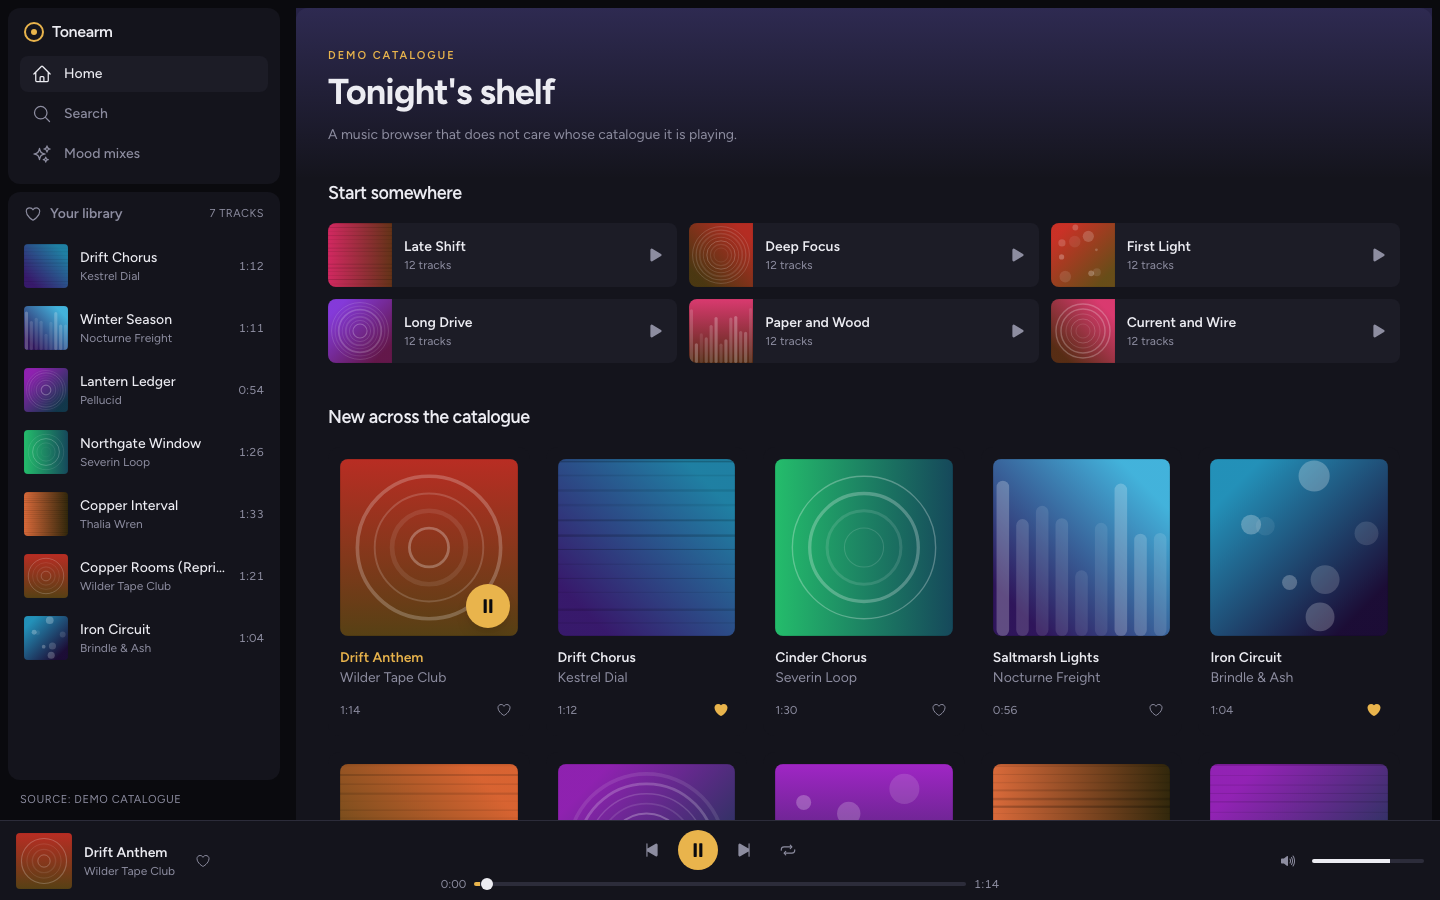
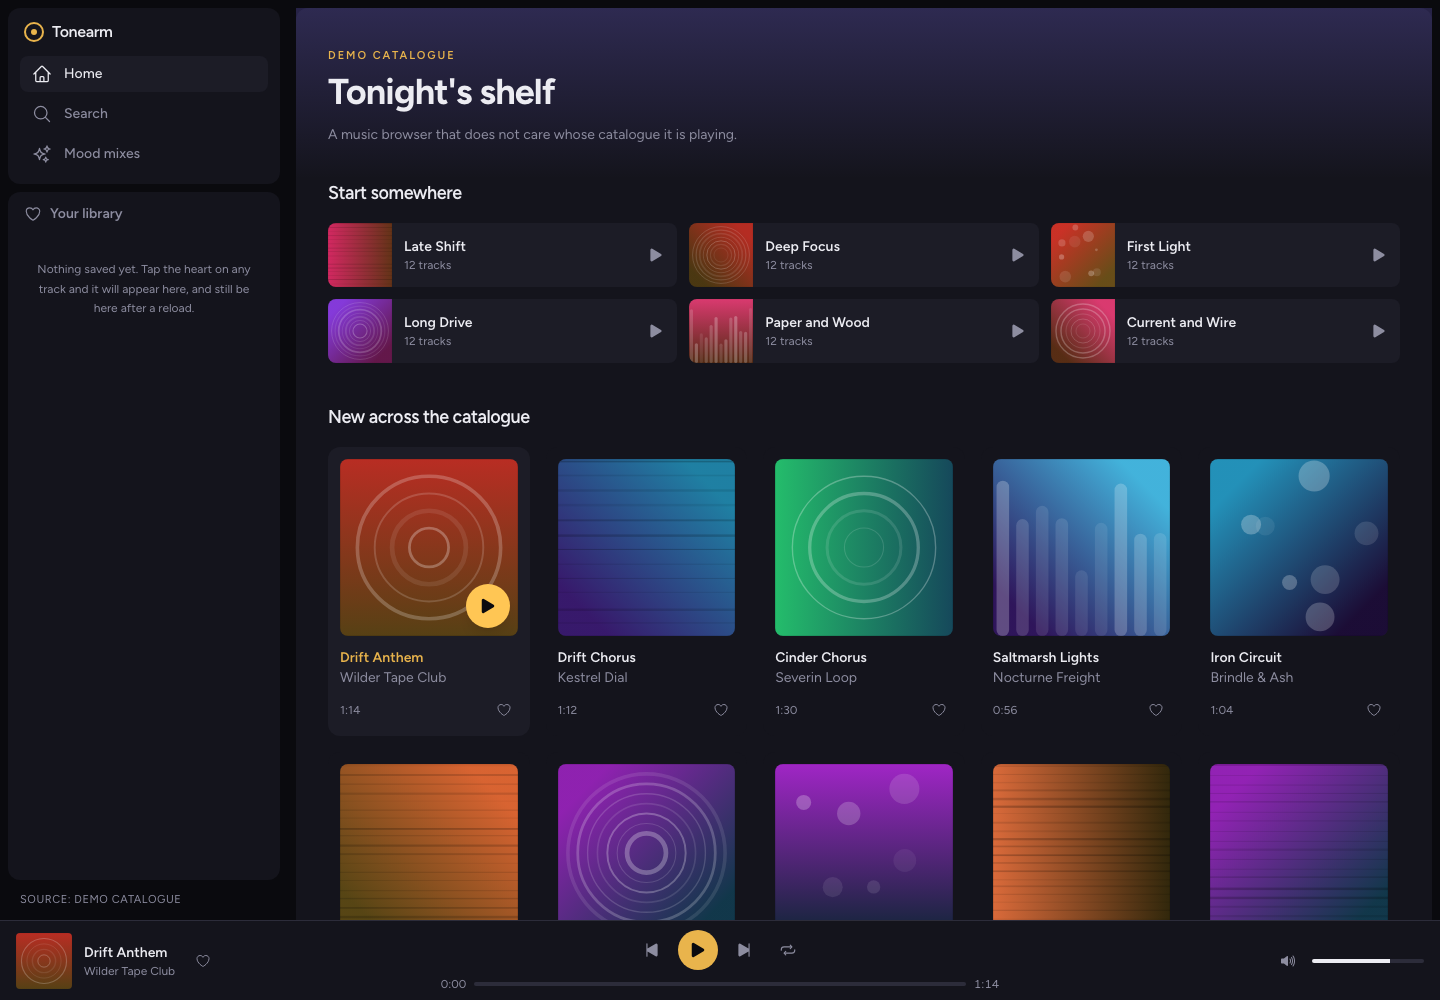
Validate native workflow and maintain supported framework dependencies

diff --git a/next-env.d.ts b/next-env.d.ts
@@ -1,7 +1,7 @@
 /// <reference types="next" />
 /// <reference types="next/image-types/global" />
-import './.next/dev/types/routes.d.ts';
-import './.next/dev/types/root-params.d.ts';
+import "./.next/types/routes.d.ts";
+import "./.next/types/root-params.d.ts";
 
 // NOTE: This file should not be edited
 // see https://nextjs.org/docs/app/api-reference/config/typescript for more information.

diff --git a/README.md b/README.md
@@ -229,3 +229,10 @@ tests/            vitest suite
 - Not a streaming service. The demo audio is synthesised tones, deliberately: a
   player with nothing to play is a screenshot, not a feature.
 - Not multi-user. The demo library is a `localStorage` key on your own browser.
+
+## Playback check
+
+A native production run was opened in Chromium. The demo track advanced through
+the HTML audio element and paused when requested. This verifies the synthesised
+fixture audio; it does not verify Spotify streaming.
+[Recorded checks](docs/native-verification.json). Use Node.js 22.12 or newer.
